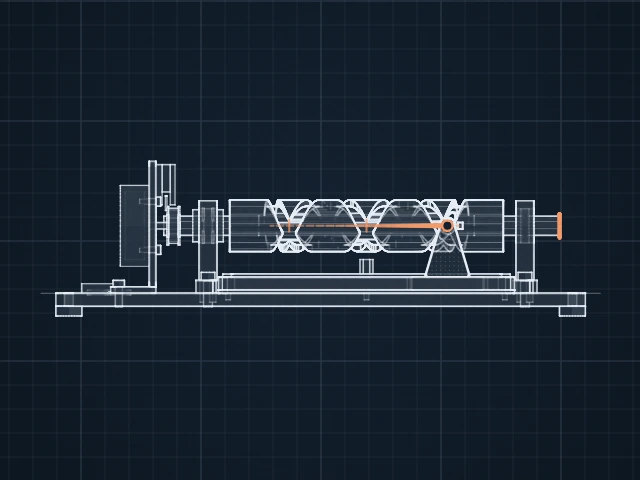
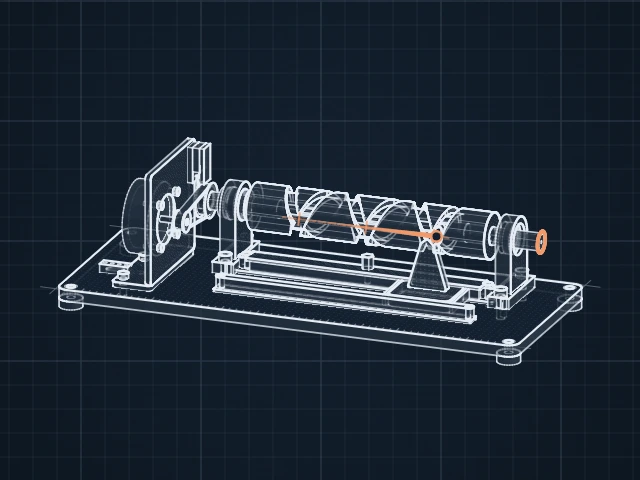
design: the self-reversing screw opens in the dimetric view (#255)

Changed region(s): [[0.0625, 0.2812, 0.9375, 0.7812]]

diff --git a/src/mechanisms/self-reversing-screw/audit.md b/src/mechanisms/self-reversing-screw/audit.md
@@ -38,13 +38,13 @@ PASS 150 · FAIL 0 · N/A 17 · open: none
 | K10 | PASS | AUTO / DATA · AUTO / DATA · one closure; the track repeats after 6 turns, continuous over the cycle |
 | K11 | PASS | AUTO · mobility counted 2, dof 1 |
 | K12 | PASS | DATA · DATA · every traced, overlaid, plotted and claimed point and quantity is named in kin |
-| T1 | PASS | HAND · HAND · mechanics first; the shoe running out and back on a screw that turns one way reads in FRONT, the diamonds of the crossing grooves, the shoe swivelling at each end; no winch, reel or cable in any string |
+| T1 | PASS | HAND · HAND · mechanics first; the shoe running out and back on a screw that turns one way reads in DIMETRIC, the diamonds of the crossing grooves, the shoe swivelling at each end; no winch, reel or cable in any string |
 | T2 | PASS | HAND · HAND · review before the build and again on the six phases of the finished build (shots at u 0, 1.1, 1.57 and the set); decisions in the record |
 | T3 | PASS | DATA · DATA · screw, shoe, carriage and the shoe's centre declared; drawn whole, in depth order |
 | T4 | PASS | DATA · fired: trace-marks (1 solid) · DATA · the shoe's centre with one tick per screw turn: ticks one lead apart in the steady runs, closer in the turn-round |
 | T5 | PASS | DATA · DATA · screw axis; a one-lead dimension; the stroke between the shoe's posed ends, labelled with the 3 turns |
 | T6 | PASS | HAND / DATA · HAND / DATA · 120 mm of stroke on a 170 mm screw, a 57.2° swivel at each end, 8.3 mm crossings under an 18 mm shoe: all read at the default size |
-| T7 | PASS | DATA · DATA · FRONT: the screw's near side, where the grooves cross in diamonds and the shoe lies along its groove at true size |
+| T7 | PASS | DATA · DATA · DIMETRIC: the screw's length, the diamonds of the crossing grooves and the shoe in its groove read together with the carriage and the drive in depth; FRONT keeps the grooves at true size |
 | T8 | PASS | DATA · DATA · detail CROSSING at 4:1 where the shoe bridges a crossing at the stage's opening phase, the shoe highlighted |
 | T9 | PASS | AUTO / DATA · claim table: 6 ok, 0 off, 0 uncheckable of 6 |
 | T10 | PASS | AUTO · 22 solids drawn see-through: carriage-upright, O-pb-b0, O-pb-b0-brg, O-pb-b0-brg-balls, O-pb-b0-brg-cage, O-pb-b0-col0, O-pb-b0-col1, O-pb-b1 · filled by the generator: a rule built solids for it |
